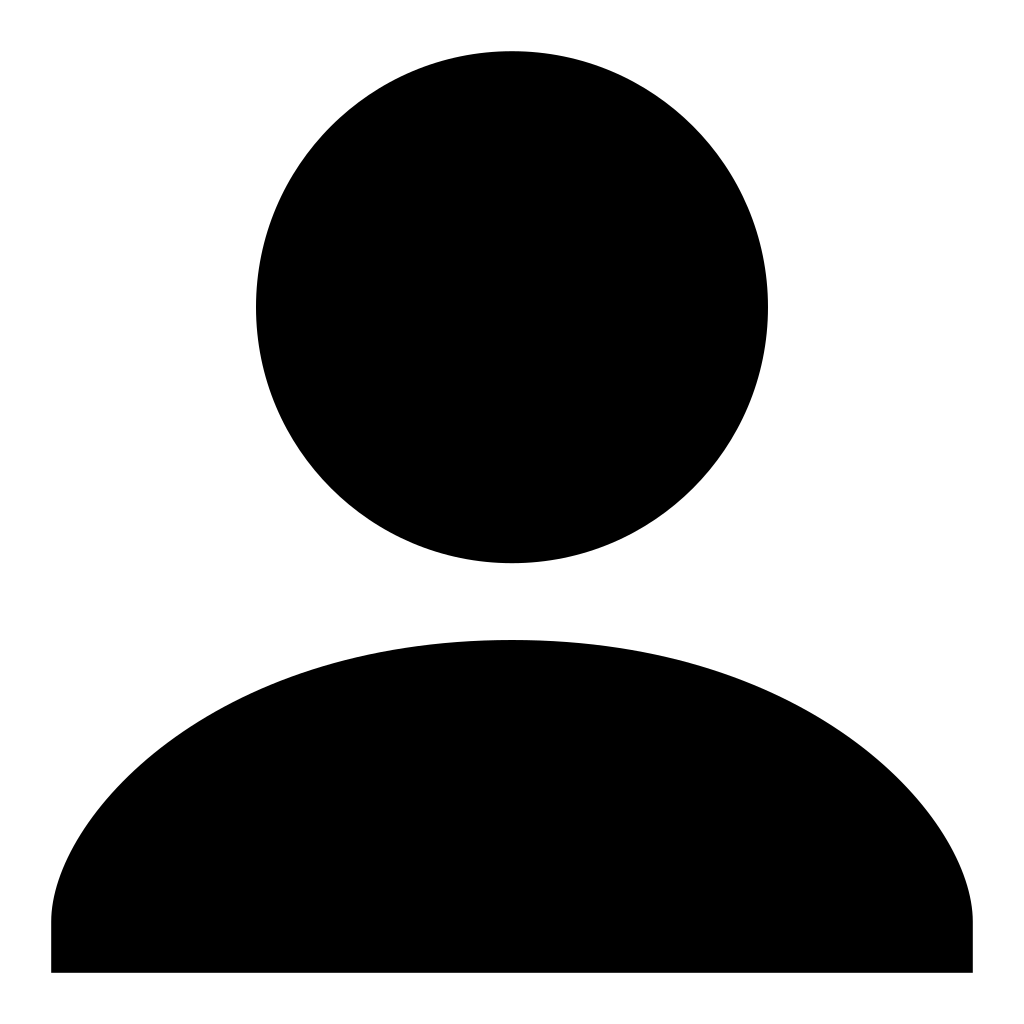
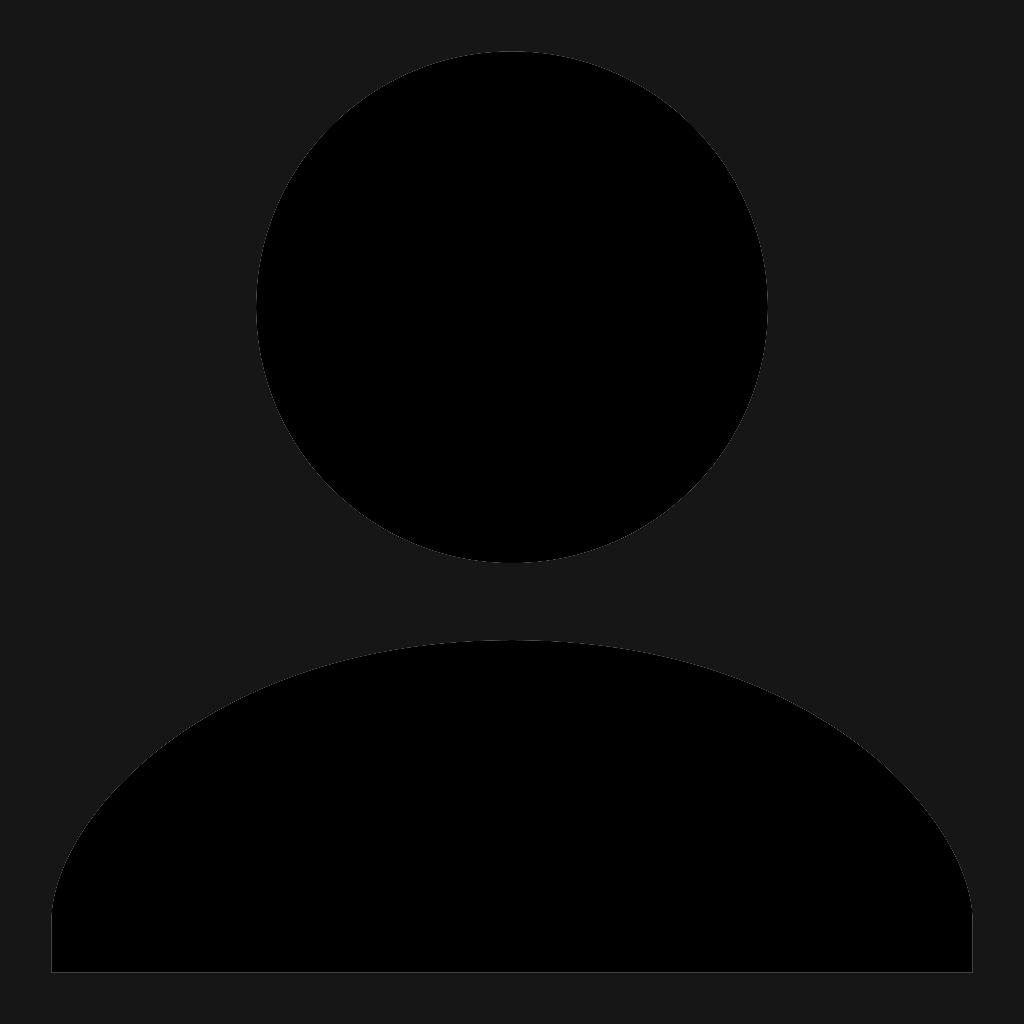
fix: SummaryCard user image placeholder

diff --git a/web/components/drop/SummaryCard.js b/web/components/drop/SummaryCard.js
@@ -92,7 +92,11 @@ const DropSummaryCard = ({ drop }) => {
                       <div key={user.id}>
                         <Image
                           alt={user.fullName}
-                          src={user.profilePicture}
+                          src={
+                            user.profilePicture
+                              ? user.profilePicture
+                              : `/img/default_user.png`
+                          }
                           key={user.id}
                           width="20px"
                           height="20px"
